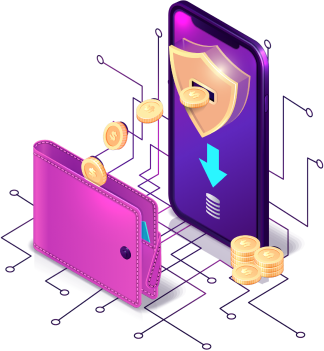
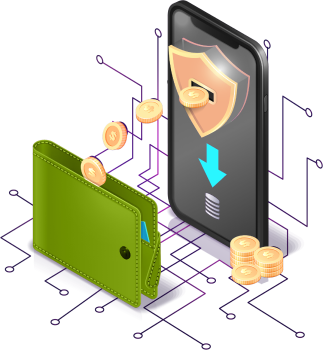
fortuna theme change

diff --git a/ui/pages/onboarding-flow/index.scss b/ui/pages/onboarding-flow/index.scss
@@ -18,8 +18,8 @@
   z-index: 10;
 }
 .GradientBox {
-  background: radial-gradient(115.77% 115.77% at 50% -18.77%, rgba(255, 22, 203, 0.7) 0%, rgba(20, 5, 51, 0) 100%),
-  linear-gradient(0deg, rgba(255, 255, 255, 0.2), rgba(255, 255, 255, 0.2));
+  /*background: radial-gradient(115.77% 115.77% at 50% -18.77%, rgba(255, 22, 203, 0.7) 0%, rgba(20, 5, 51, 0) 100%),
+  linear-gradient(0deg, rgba(255, 255, 255, 0.2), rgba(255, 255, 255, 0.2));*/
   padding: 1px;
   border-radius: 24px;
   overflow: hidden;
@@ -27,13 +27,13 @@
     position: relative;
     border-radius: 24px;
     height: 100%;
-    background-color: #150537;
+    background-color: #23222B;
     padding: 32px 16px;
     @include design-system.screen-sm-min {
       padding: 32px;
     }
     &::before {
-      background: transparent radial-gradient(closest-side at 50% 25%, #ff16cb 0%, #24144600 100%) 0% 0% no-repeat padding-box;
+      background: transparent radial-gradient(closest-side at 50% 25%, #9FC131 0%, #29273100 100%) 0% 0% no-repeat padding-box;
       opacity: 0.7;
       content: "";
       position: absolute;

diff --git a/ui/css/index.scss b/ui/css/index.scss
@@ -35,8 +35,8 @@
 @import '@metamask/design-tokens/src/css/design-tokens';
 
 :root, [data-theme=light] {
-  --color-background-default: #140533;
-  --color-background-alternative: #241446;
+  --color-background-default: #1A1920;
+  --color-background-alternative: #292731;
   --color-primary-alternative: #9FC131;
   --color-secondary-default: #9FC131;
   --color-primary-muted: #9fc13140;
@@ -45,14 +45,14 @@
   --color-primary-default: #9FC131;
   --color-primary-inverse: #ffffff;
   --color-primary-shadow:#9FC13133;
-  --color-border-muted:#3B2864;
+  --color-border-muted:#848E9C;
 }
 
 .bg-dark-purple {
-  background-color: #140533;
+  background-color: #1A1920;
 }
 .bg-light-purple {
-  background-color: #3B2864;
+  background-color: #848E9C;
 }
 .primary-green-color {
   span {

diff --git a/ui/pages/unlock-page/index.scss b/ui/pages/unlock-page/index.scss
@@ -15,8 +15,8 @@
     align-self: stretch;
     justify-content: center;
     flex: 1 0 auto;
-    /*background: var(--color-background-default);*/
-    background: url("images/bg-unlock.png") no-repeat center top;
+    background: var(--color-background-default);
+    /*background: url("images/bg-unlock.png") no-repeat center top;*/
   }
 
   &__mascot-container {

diff --git a/ui/components/ui/toggle-button/toggle-button.component.js b/ui/components/ui/toggle-button/toggle-button.component.js
@@ -56,8 +56,8 @@ const colorsDark = {
     base: lightTheme.colors.primary.inverse,
   },
   active: {
-    base: darkTheme.colors.primary.default,
-    hover: darkTheme.colors.primary.defaultHover,
+    base: '#424a55',
+    hover: '#424a55',
   },
   inactive: {
     base: darkTheme.colors.icon.muted,

diff --git a/ui/components/ui/icon-button/icon-button.scss b/ui/components/ui/icon-button/icon-button.scss
@@ -7,7 +7,7 @@
   justify-content: center;
   text-align: center;
   min-width: 80px;
-  background-color: #241446;
+  background-color: #292731;
   border-radius: 6px;
 
   @include design-system.H7;
